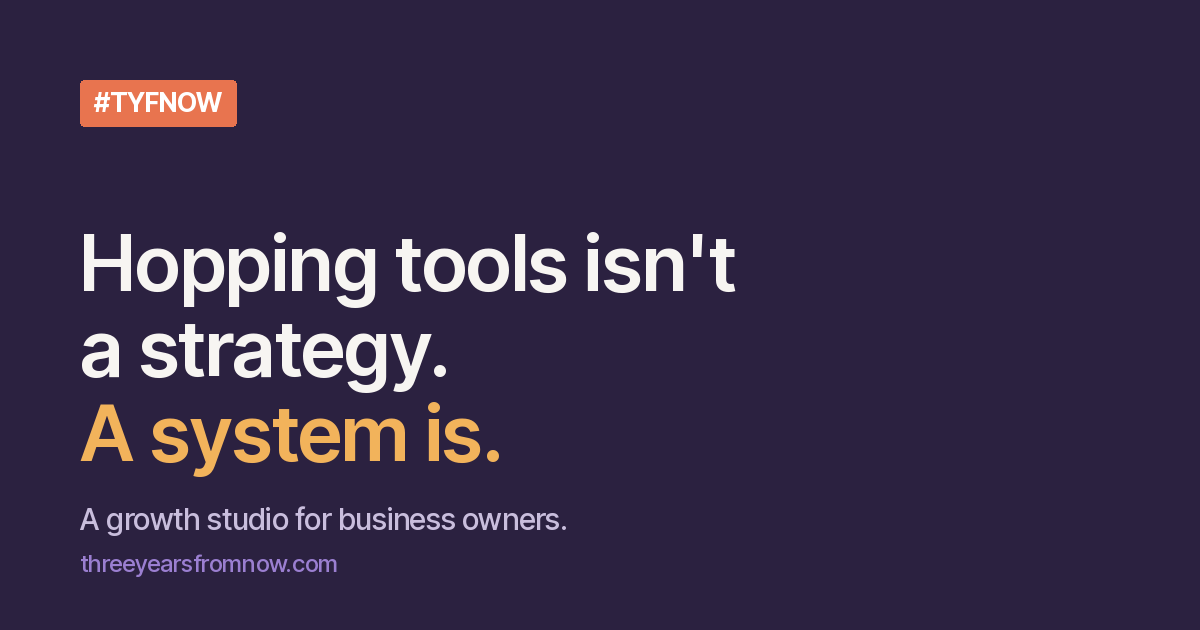
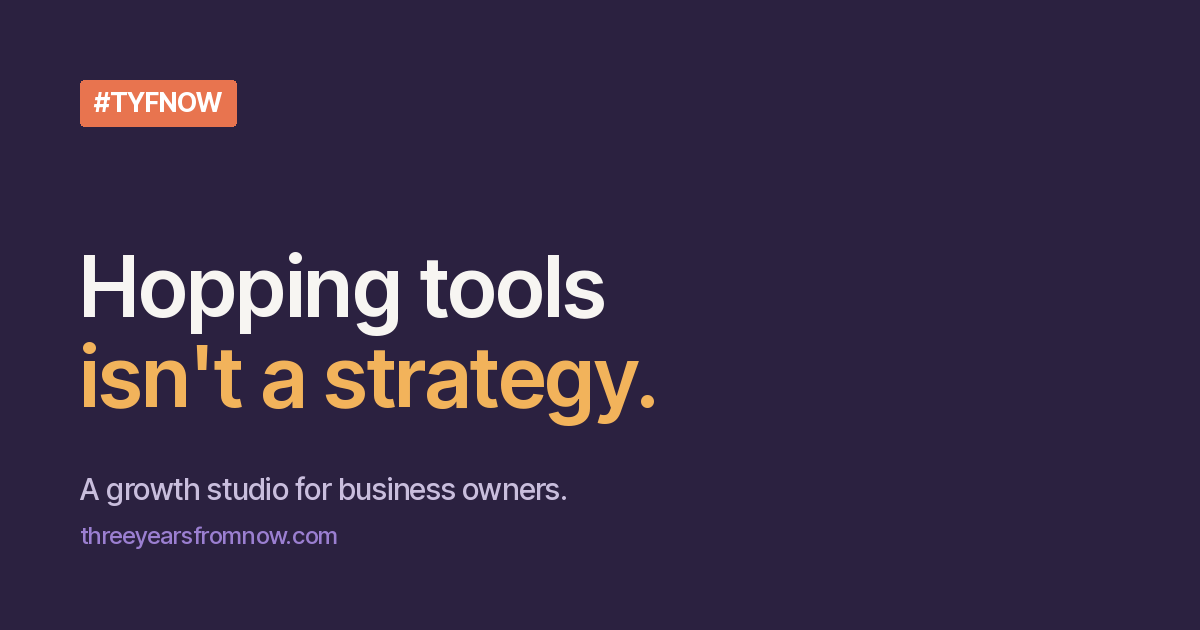
Change log v11: headline shortened, why-now sub-head carries the awake and AI lines (F57)
Claude-Session: https://claude.ai/code/session_01FGqM6zCdzXNwXnxrJ8bsNB

Changed region(s): [[0.0617, 0.3619, 0.6167, 0.9048]]

diff --git a/index.html b/index.html
@@ -4,10 +4,10 @@
 <meta charset="utf-8">
 <meta name="viewport" content="width=device-width, initial-scale=1">
 <title>Growth studio for business owners. Three Years From Now</title>
-<meta name="description" content="Hopping tools isn't a strategy. A system is. A growth studio for business owners that deals with today's problem whilst building the system for tomorrow.">
+<meta name="description" content="Hopping tools isn't a strategy. A growth studio for business owners that deals with today's problem whilst building the system for tomorrow.">
 <link rel="canonical" href="https://www.threeyearsfromnow.com/">
 <meta property="og:title" content="Growth studio for business owners. Three Years From Now">
-<meta property="og:description" content="Hopping tools isn't a strategy. A system is. A growth studio for business owners that deals with today's problem whilst building the system for tomorrow.">
+<meta property="og:description" content="Hopping tools isn't a strategy. A growth studio for business owners that deals with today's problem whilst building the system for tomorrow.">
 <meta property="og:url" content="https://www.threeyearsfromnow.com/">
 <meta property="og:type" content="website">
 <meta property="og:site_name" content="Three Years From Now">
@@ -15,10 +15,10 @@
 <meta property="og:image" content="https://www.threeyearsfromnow.com/img/og.png">
 <meta property="og:image:width" content="1200">
 <meta property="og:image:height" content="630">
-<meta property="og:image:alt" content="Hopping tools isn't a strategy. A system is. A growth studio for business owners.">
+<meta property="og:image:alt" content="Hopping tools isn't a strategy. A growth studio for business owners.">
 <meta name="twitter:card" content="summary_large_image">
 <meta name="twitter:title" content="Growth studio for business owners. Three Years From Now">
-<meta name="twitter:description" content="Hopping tools isn't a strategy. A system is. A growth studio for business owners that deals with today's problem whilst building the system for tomorrow.">
+<meta name="twitter:description" content="Hopping tools isn't a strategy. A growth studio for business owners that deals with today's problem whilst building the system for tomorrow.">
 <meta name="twitter:image" content="https://www.threeyearsfromnow.com/img/og.png">
 <script type="application/ld+json">{"@context": "https://schema.org", "@graph": [{"@type": "Organization", "@id": "https://www.threeyearsfromnow.com/#org", "name": "Three Years From Now", "alternateName": "TYFNOW", "legalName": "Three Years From Now Ltd", "url": "https://www.threeyearsfromnow.com/", "logo": "https://www.threeyearsfromnow.com/img/og.png", "description": "A growth studio for business owners. Brand, website and content, built, measured and improved every week.", "foundingDate": "2026-02", "identifier": {"@type": "PropertyValue", "propertyID": "Companies House", "value": "17013338"}, "founder": {"@type": "Person", "@id": "https://www.threeyearsfromnow.com/#founder", "name": "Shaheryar Malik", "jobTitle": "Founder and creative director"}, "address": {"@type": "PostalAddress", "streetAddress": "259 Sheepcot Lane", "addressLocality": "Watford", "postalCode": "WD25 7DJ", "addressCountry": "GB"}, "areaServed": "GB", "knowsAbout": ["brand", "website", "content", "growth marketing", "AI systems for small businesses"]}, {"@type": "WebSite", "@id": "https://www.threeyearsfromnow.com/#website", "url": "https://www.threeyearsfromnow.com/", "name": "Three Years From Now", "publisher": {"@id": "https://www.threeyearsfromnow.com/#org"}, "inLanguage": "en-GB"}, {"@type": "WebPage", "@id": "https://www.threeyearsfromnow.com/#page", "url": "https://www.threeyearsfromnow.com/", "name": "Three Years From Now", "isPartOf": {"@id": "https://www.threeyearsfromnow.com/#website"}, "about": {"@id": "https://www.threeyearsfromnow.com/#org"}}]}</script>
 <link rel="preload" href="/fonts/InterTight-var.woff" as="font" type="font/woff" crossorigin>
@@ -42,7 +42,7 @@
 
   <main>
     <section class="hero wrap" id="top">
-      <h1>Hopping tools<br>isn't a strategy.<br>A system is.</h1>
+      <h1>Hopping tools<br>isn't a strategy.</h1>
       <p class="sub">A growth studio that deals with today's problem whilst building the system for tomorrow.</p>
       <a href="/contact" class="btn sky" data-track="hero_cta_primary">Tell us what's not working</a>
       <div class="tools" id="tools" aria-hidden="true"></div>
@@ -50,8 +50,8 @@
 
     <section id="why-now" class="sec wrap">
       <div class="sec-head">
-        <h2 class="wide">Where does the next customer come from? It's what keeps business owners awake.</h2>
-        <p class="sub">Small businesses bolted AI on this year. Most will admit nothing much changed.</p>
+        <h2 class="wide">Where does the next customer come from?</h2>
+        <p class="sub">It's what keeps business owners awake. Small businesses bolted AI on this year. Most will admit nothing much changed.</p>
       </div>
       <div class="card globe-card">
         <div class="globe-wrap">

diff --git a/blog/two-thousand-and-ninety-three/index.html b/blog/two-thousand-and-ninety-three/index.html
@@ -16,7 +16,7 @@
 <meta property="og:image" content="https://www.threeyearsfromnow.com/img/og.png">
 <meta property="og:image:width" content="1200">
 <meta property="og:image:height" content="630">
-<meta property="og:image:alt" content="Hopping tools isn't a strategy. A system is. A growth studio for business owners.">
+<meta property="og:image:alt" content="Hopping tools isn't a strategy. A growth studio for business owners.">
 <meta name="twitter:card" content="summary_large_image">
 <meta name="twitter:title" content="Two thousand and ninety-three. Three Years From Now">
 <meta name="twitter:description" content="The ride report: 2,093 km from London to Lisbon over sixteen days, eight World Heritage Sites, and £2,026 raised for Shelter and Andy&#x27;s Man Club.">

diff --git a/blog/build-grow-and-keep-moving/index.html b/blog/build-grow-and-keep-moving/index.html
@@ -16,7 +16,7 @@
 <meta property="og:image" content="https://www.threeyearsfromnow.com/img/og.png">
 <meta property="og:image:width" content="1200">
 <meta property="og:image:height" content="630">
-<meta property="og:image:alt" content="Hopping tools isn't a strategy. A system is. A growth studio for business owners.">
+<meta property="og:image:alt" content="Hopping tools isn't a strategy. A growth studio for business owners.">
 <meta name="twitter:card" content="summary_large_image">
 <meta name="twitter:title" content="Build, grow and keep moving. Three Years From Now">
 <meta name="twitter:description" content="Three Years From Now is supporting Amber and Shaheryar&#x27;s 2,026 km ride from London to Lisbon, raising £2,026 for Shelter and Andy&#x27;s Man Club.">

diff --git a/blog/five-months-of-saturdays/index.html b/blog/five-months-of-saturdays/index.html
@@ -16,7 +16,7 @@
 <meta property="og:image" content="https://www.threeyearsfromnow.com/img/og.png">
 <meta property="og:image:width" content="1200">
 <meta property="og:image:height" content="630">
-<meta property="og:image:alt" content="Hopping tools isn't a strategy. A system is. A growth studio for business owners.">
+<meta property="og:image:alt" content="Hopping tools isn't a strategy. A growth studio for business owners.">
 <meta name="twitter:card" content="summary_large_image">
 <meta name="twitter:title" content="Five months of Saturdays. Three Years From Now">
 <meta name="twitter:description" content="Five months of training for the London to Lisbon ride: Richmond Park laps, two sportives, Hadrian&#x27;s Cycleway coast to coast and the Dunwich Dynamo.">

diff --git a/work/index.html b/work/index.html
@@ -16,7 +16,7 @@
 <meta property="og:image" content="https://www.threeyearsfromnow.com/img/og.png">
 <meta property="og:image:width" content="1200">
 <meta property="og:image:height" content="630">
-<meta property="og:image:alt" content="Hopping tools isn't a strategy. A system is. A growth studio for business owners.">
+<meta property="og:image:alt" content="Hopping tools isn't a strategy. A growth studio for business owners.">
 <meta name="twitter:card" content="summary_large_image">
 <meta name="twitter:title" content="Work. Brand, website and content for business owners. Three Years From Now">
 <meta name="twitter:description" content="Work by Three Years From Now: brand, website, content and pipeline, built with TYFNOW and in the years before it.">

diff --git a/contact/index.html b/contact/index.html
@@ -15,7 +15,7 @@
 <meta property="og:image" content="https://www.threeyearsfromnow.com/img/og.png">
 <meta property="og:image:width" content="1200">
 <meta property="og:image:height" content="630">
-<meta property="og:image:alt" content="Hopping tools isn't a strategy. A system is. A growth studio for business owners.">
+<meta property="og:image:alt" content="Hopping tools isn't a strategy. A growth studio for business owners.">
 <meta name="twitter:card" content="summary_large_image">
 <meta name="twitter:title" content="Tell us what's not working. Contact Three Years From Now">
 <meta name="twitter:description" content="A straight conversation about what's not working. Reply within five working days. No hard sell.">

diff --git a/blog/index.html b/blog/index.html
@@ -16,7 +16,7 @@
 <meta property="og:image" content="https://www.threeyearsfromnow.com/img/og.png">
 <meta property="og:image:width" content="1200">
 <meta property="og:image:height" content="630">
-<meta property="og:image:alt" content="Hopping tools isn't a strategy. A system is. A growth studio for business owners.">
+<meta property="og:image:alt" content="Hopping tools isn't a strategy. A growth studio for business owners.">
 <meta name="twitter:card" content="summary_large_image">
 <meta name="twitter:title" content="Blog. Notes on building and growing a small business. Three Years From Now">
 <meta name="twitter:description" content="Notes from Three Years From Now. Mostly the ride to Lisbon, for now.">

diff --git a/privacy/index.html b/privacy/index.html
@@ -15,7 +15,7 @@
 <meta property="og:image" content="https://www.threeyearsfromnow.com/img/og.png">
 <meta property="og:image:width" content="1200">
 <meta property="og:image:height" content="630">
-<meta property="og:image:alt" content="Hopping tools isn't a strategy. A system is. A growth studio for business owners.">
+<meta property="og:image:alt" content="Hopping tools isn't a strategy. A growth studio for business owners.">
 <meta name="twitter:card" content="summary_large_image">
 <meta name="twitter:title" content="Privacy policy. Three Years From Now">
 <meta name="twitter:description" content="What we collect, why, where it goes and how long we keep it.">

diff --git a/terms/index.html b/terms/index.html
@@ -15,7 +15,7 @@
 <meta property="og:image" content="https://www.threeyearsfromnow.com/img/og.png">
 <meta property="og:image:width" content="1200">
 <meta property="og:image:height" content="630">
-<meta property="og:image:alt" content="Hopping tools isn't a strategy. A system is. A growth studio for business owners.">
+<meta property="og:image:alt" content="Hopping tools isn't a strategy. A growth studio for business owners.">
 <meta name="twitter:card" content="summary_large_image">
 <meta name="twitter:title" content="Terms. Three Years From Now">
 <meta name="twitter:description" content="Website terms and the front-page question.">

diff --git a/_build/build_work_blog.py b/_build/build_work_blog.py
@@ -49,7 +49,7 @@ def page(path, title, desc, body, canonical, index=True, extra_head="", body_att
 <meta property="og:image" content="{BASE}/img/og.png">
 <meta property="og:image:width" content="1200">
 <meta property="og:image:height" content="630">
-<meta property="og:image:alt" content="Hopping tools isn't a strategy. A system is. A growth studio for business owners.">
+<meta property="og:image:alt" content="Hopping tools isn't a strategy. A growth studio for business owners.">
 <meta name="twitter:card" content="summary_large_image">
 <meta name="twitter:title" content="{html.escape(title, quote=True)}">
 <meta name="twitter:description" content="{html.escape(desc, quote=True)}">
